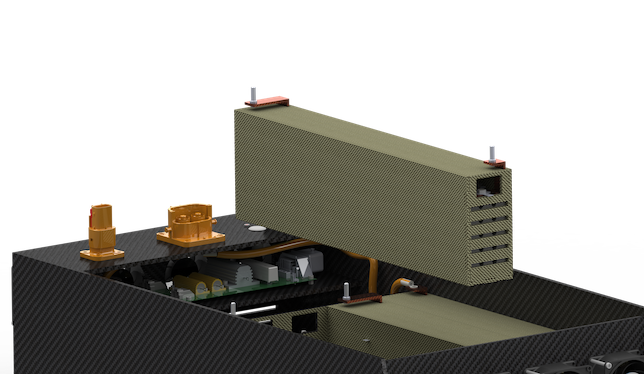
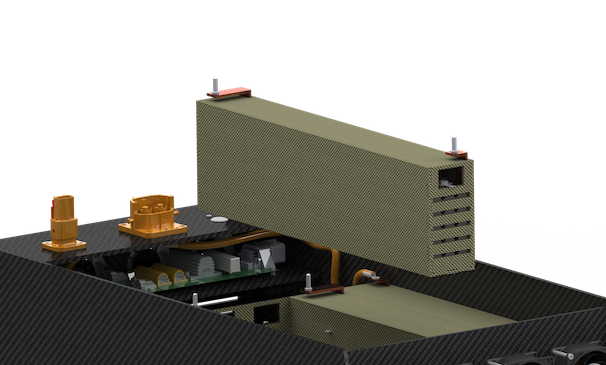
battery front

diff --git a/src/components/ProjectPage/BatteryPackaging.js b/src/components/ProjectPage/BatteryPackaging.js
@@ -2,6 +2,7 @@ import React, { Component } from 'react'
 import ProjectPage from './ProjectPage';
 
 import cutaway from './../../img/BatteryPackaging/battery-cut.png'
+import front from './../../img/BatteryPackaging/batt-front.png';
 import popup from './../../img/BatteryPackaging/popped out.png'
 import modules from './../../img/BatteryPackaging/one module.png'
 import inchassis from './../../img/BatteryPackaging/chassis-cut.png';
@@ -14,6 +15,8 @@ export class BatteryPackaging extends Component {
             images={[
                 {image: cutaway,
                 description:"Photoview 360 Render: Right side off showing cells"},
+                {image: front,
+                    description:"Front intakes and BMS enclosure"},
                 {image: popup,
                 description:"Single Module lifted out of battery pack"},
                 {image: modules,
